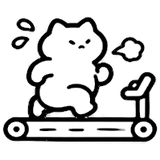
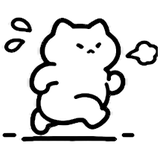
Mascot: new running cat, punching-bag gap cut out, bigger sleeping cat on Mood

diff --git a/app.js b/app.js
@@ -1399,7 +1399,7 @@ function nextPose(list) {
 }
 const POSE_SAY = {
   press: 'Overhead press — up, up, UP!', curl: 'Curl, squeeze, repeat…', row: 'Row, row, row that cable!', boxing: 'Jab, jab — POW!',
-  bench: 'Bench day! Spot me?', legpress: 'Leg press… feel the burn!', treadmill: 'Treadmill time — puff puff!', jumprope: 'Skip, skip, skip!',
+  bench: 'Bench day! Spot me?', legpress: 'Leg press… feel the burn!', treadmill: 'Running — puff puff!', jumprope: 'Skip, skip, skip!',
 };
 /** Speech lines that match what Buddy is doing in the picture. */
 function buddyLines(b, pose) {
@@ -2417,8 +2417,8 @@ function moodHero() {
     e.out === true ? 'Left the house' : e.out === false ? 'Stayed in' : '', ...(e.move || []),
     e.social ? SOCIAL[e.social] : '', ...(e.tags || []), ...(e.feel || []),
   ].filter(Boolean) : [];
-  return `<section class="card m-hero">
-    <div class="m-buddy">${ART.buddy({ m: .4, j: .3, pose, size: 120 })}</div>
+  return `<section class="card m-hero${pose === 'nap' ? ' nap' : ''}">
+    <div class="m-buddy">${ART.buddy({ m: .4, j: .3, pose, size: pose === 'nap' ? 180 : 120 })}</div>
     <div class="m-head"><div class="eyebrow">Nightly check-in</div>
     ${e ? `<div class="row" style="gap:10px;margin:2px 0 8px">${e.mood ? moodFace(e.mood, 44) : ''}<h2 style="margin:0">${e.mood ? `${MOOD_NAMES[e.mood]} ${label}` : `Logged ${label}`}</h2></div></div>
       <div class="mchips">${chips.slice(0, 10).map((c) => `<span>${esc(c)}</span>`).join('')}${chips.length > 10 ? `<span>+${chips.length - 10}</span>` : ''}</div>

diff --git a/styles.css b/styles.css
@@ -1281,3 +1281,6 @@ h1 { font-weight: 800; letter-spacing: -.01em; }
 .mw-back { gap: 2px; padding: 0 12px 0 6px; }
 .mw-back svg { width: 16px; height: 16px; fill: none; stroke: currentColor; stroke-width: 2.2; }
 img.buddy { -webkit-user-select: none; user-select: none; -webkit-user-drag: none; -webkit-touch-callout: none; object-fit: contain; }
+.m-hero.nap .m-buddy { width: 180px; top: -74px; right: -12px; }
+.m-hero.nap .m-buddy .buddy { width: 180px; }
+.m-hero.nap .m-head { padding-right: 140px; }

diff --git a/sw.js b/sw.js
@@ -1,5 +1,5 @@
 // Bump VERSION whenever you change any app file so devices pick up the update.
-const VERSION = 'gymlog-v52';
+const VERSION = 'gymlog-v53';
 const VENDOR = 'gymlog-vendor-1';
 const ASSETS = [
   './', './index.html', './styles.css', './app.js', './seed.js', './guides.js', './anim.js', './art.js', './manifest.webmanifest',
